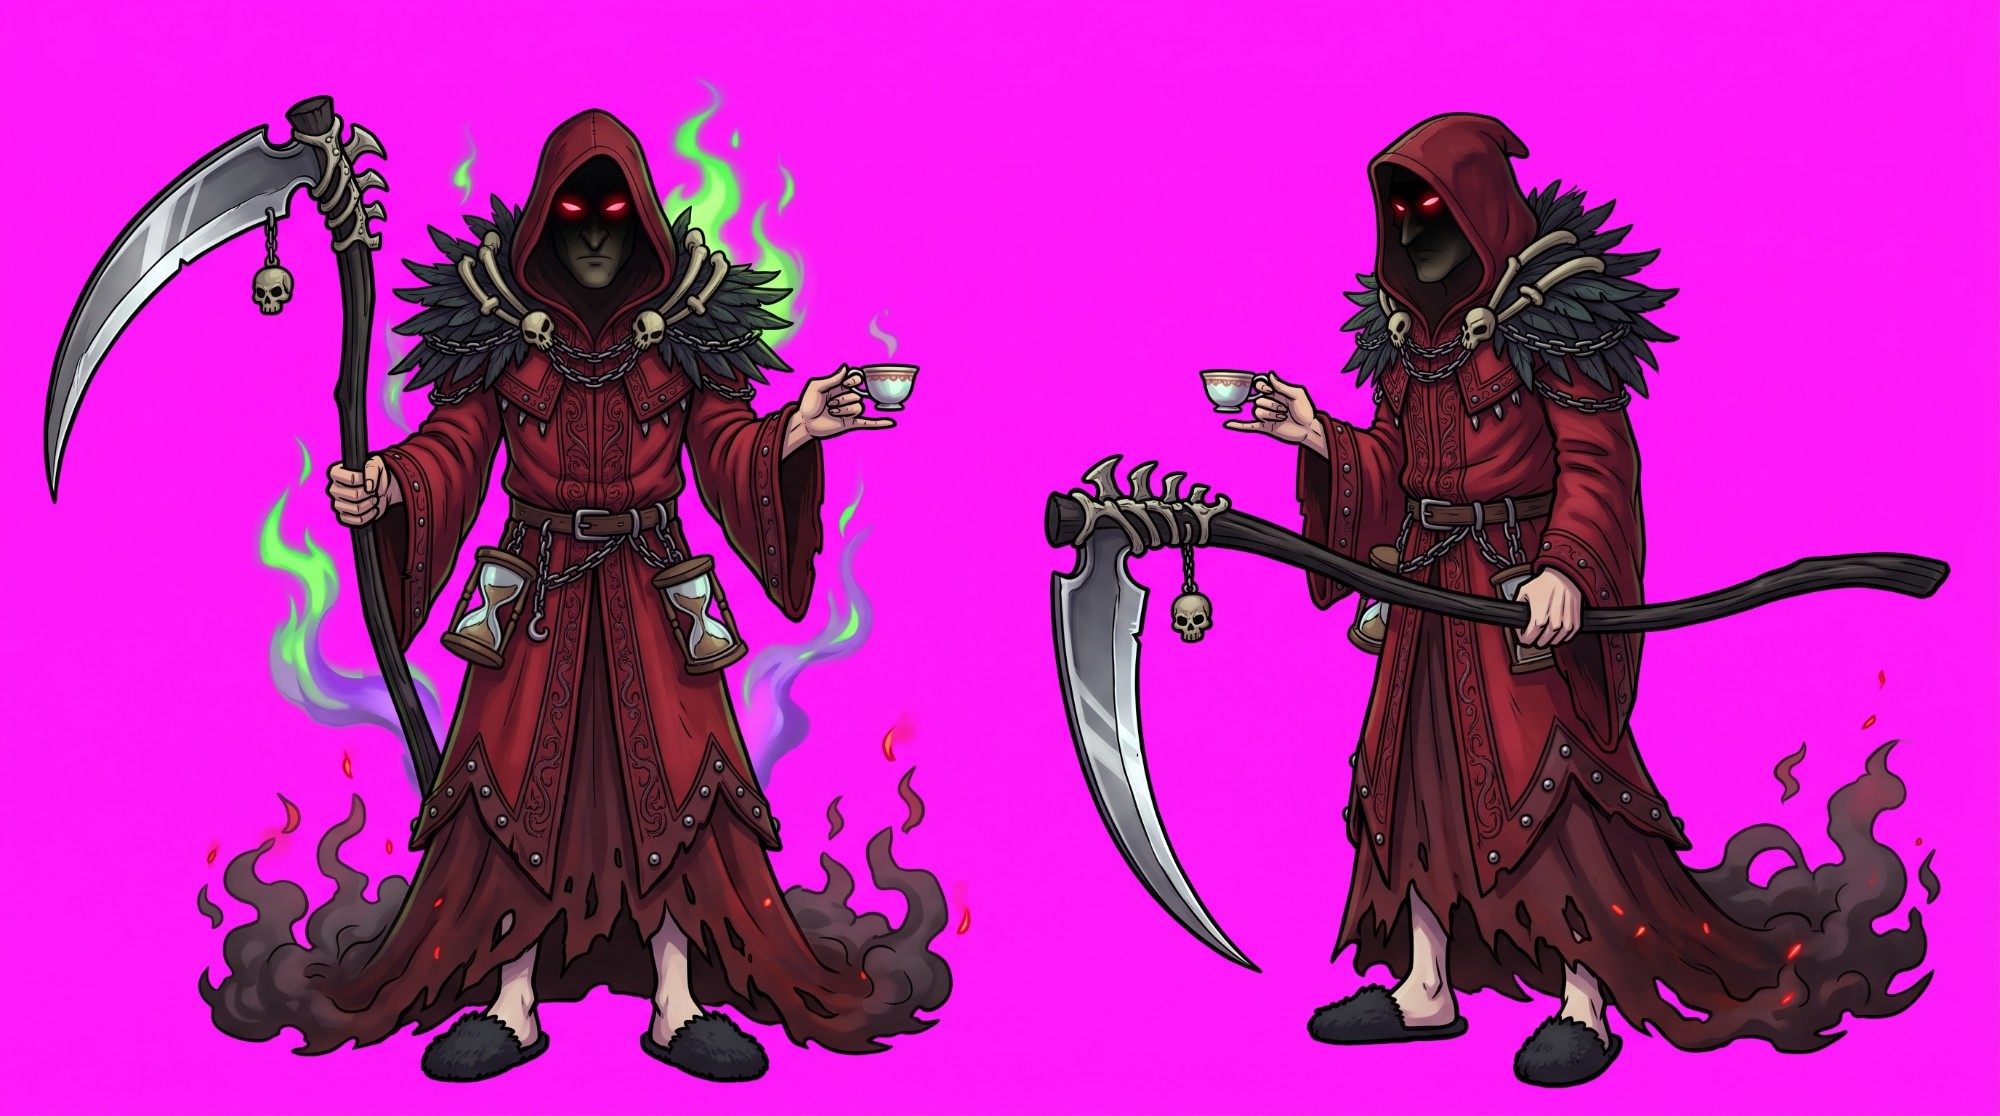
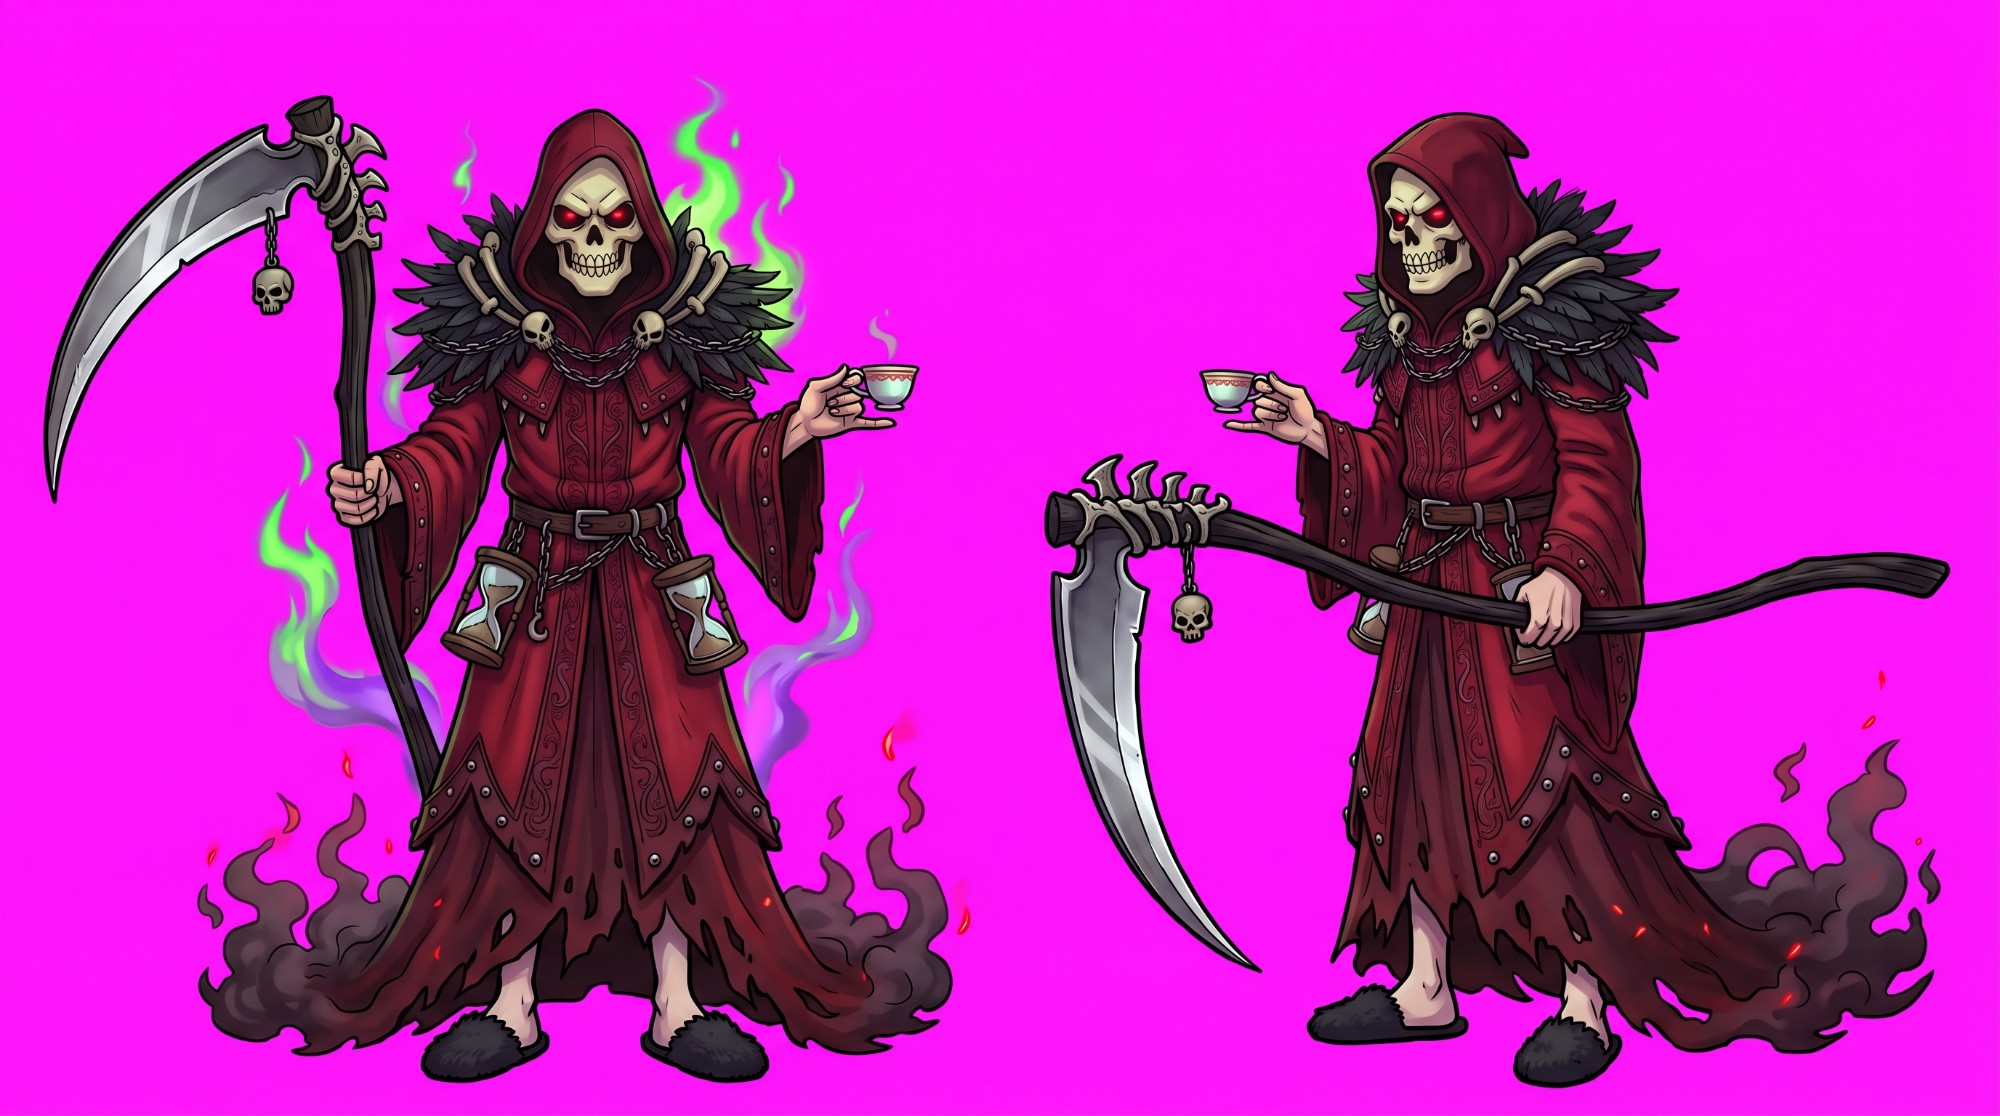
Ölüleri Diriltme: cesetler iskelet değil kendi kılığında, çürümüş solgun renkte kalkar; yolun başına doğru yürür, karşılaştığı düşmanla dövüşür, sonra yürümeye devam eder. Kafatası yüzlü Mortimer karakter sayfası (mortimer.png)

diff --git a/sinir-kalesi/js/game.js b/sinir-kalesi/js/game.js
@@ -71,6 +71,22 @@ const easeOutBack = (x) => 1 + 2.70158 * Math.pow(x - 1, 3) + 1.70158 * Math.pow
 
 // İsabet anında sprite'ın üzerine çizilen beyaz siluet (önbellekli)
 const WHITE = {};
+// dirilen cesetler: aynı görselin solgun, yeşilimsi-gri çürümüş renkli kopyası (önbellekli)
+const ROT = {};
+function rottenOf(name, im) {
+  if (ROT[name]) return ROT[name];
+  const c = document.createElement('canvas'); c.width = im.width; c.height = im.height;
+  const g = c.getContext('2d', { willReadFrequently: true }); g.drawImage(im, 0, 0);
+  const d = g.getImageData(0, 0, c.width, c.height), a = d.data;
+  for (let i = 0; i < a.length; i += 4) {
+    const L = a[i] * 0.3 + a[i + 1] * 0.59 + a[i + 2] * 0.11;
+    a[i] = (a[i] * 0.3 + (L * 0.74 + 16) * 0.7) * 0.86;
+    a[i + 1] = (a[i + 1] * 0.3 + (L * 0.92 + 30) * 0.7) * 0.86;
+    a[i + 2] = (a[i + 2] * 0.3 + (L * 0.68 + 12) * 0.7) * 0.86;
+  }
+  g.putImageData(d, 0, 0);
+  return (ROT[name] = c);
+}
 function whiteOf(name, im) {
   if (!WHITE[name]) {
     const c = document.createElement('canvas');
@@ -2567,6 +2583,9 @@ function updateSoldier(s, dt) {
   }
   if (s.stunT > 0) { s.stunT -= dt; return; }
   if (s.march) { marchSoldier(s, dt); return; }
+  // dirilen ceset: hedefi yokken ve yakında düşman kalmamışken yolun başına doğru yürümeyi sürdürür
+  if (s.zombie && !s.target && !s.moving && G.t - (s.fightT || 0) > 0.6 && !G.enemies.some(o => !o.dead && !o.def.flying && dist(o.x, o.y, s.x, s.y) < s.engage)) zombieMarch(s);
+  if (s.zombie && s.target) s.fightT = G.t;
   if (s.hero && s.ranged) { updateRangedHero(s, dt); runHeroSkills(s, dt); return; }
   if (s.bow) { updateBowSoldier(s, dt); return; }
   const home = soldierHome(s);
@@ -3179,12 +3198,25 @@ function castNecro(id, x, y) {
     sfx('roar');
   }
 }
+// dirilen ceset: en yakın yol noktasından yolun başına (düşman girişine) doğru yürür; yolda düşmana rastlarsa dövüşür
+function zombieMarch(s) {
+  const q = nearestOnPaths(G.paths, s.x, s.y);
+  if (!q.p || q.along < 8) return false;
+  s.march = { p: q.p, d: q.along, goal: 0, off: rand(-7, 7), zombie: true };
+  return true;
+}
 // ölen düşman, diriltme açıkken yerinde iskelet minyon olarak kalkar
 function raiseMinion(e, delay = 0) {
   const S = NECRO_SPELLS.nm_raise, M = S.minion;
   if (G.soldiers.filter(s => s.minion && !s.dead).length >= S.max) return;
-  G.soldiers.push({ militia: true, merc: true, minion: true, x: e.x, y: e.y, rx: e.x, ry: e.y, hp: M.hp, maxHp: M.hp, dmg: M.dmg, armor: M.armor,
-    rate: 1, speed: 40, engage: 60, atk: 0, target: null, dead: false, face: e.face || 1, anim: 0, slot: G.soldiers.length % 4, life: M.life, born: G.t + delay });
+  const s = { militia: true, merc: true, minion: true, x: e.x, y: e.y, rx: e.x, ry: e.y, hp: M.hp, maxHp: M.hp, dmg: M.dmg, armor: M.armor,
+    rate: 1, speed: 40, engage: 60, atk: 0, target: null, dead: false, face: e.face || 1, anim: 0, slot: G.soldiers.length % 4, life: M.life, born: G.t + delay };
+  // ceset düşmanın kendi kılığında kalkar (çürümüş renkte), düşmanların geldiği yöne doğru yolda yürür
+  if (e.name) {
+    const D = ENEMIES[e.name.slice(6)];
+    s.zname = e.name; s.zrig = e.rig; s.zh = e.h || (D ? D.r * 2.6 : 30); s.zombie = true; zombieMarch(s);
+  }
+  G.soldiers.push(s);
   G.effects.push({ kind: 'pillar', x: e.x, y: e.y, col: '140,255,140', t: 0, dur: 0.7 });
   for (let i = 0; i < 8; i++) emit(G.parts, { kind: 'glow', add: true, x: e.x + rand(-8, 8), y: e.y - rand(0, 20), vy: -rand(20, 45), col: '140,255,120', s0: rand(2, 4), s1: 0.5, life: rand(0.5, 0.9) });
 }
@@ -3336,10 +3368,10 @@ function sendMerc(s) {
 }
 // paralı askerin yürüyüşü: yol üzerinde hedef noktaya (iki yöne de) yürür
 function marchSoldier(s, dt) {
-  const m = s.march, sp = MERCS.march * G.wspd;
+  const m = s.march, sp = (m.zombie ? 30 : MERCS.march) * G.wspd; // dirilenler ağır ağır yürür
   // toplanma yeri seçilmediyse yolda karşılaştığı ilk düşmanla orada dövüşür; seçildiyse yerine gider
   const foe = !m.rally && G.enemies.find(e => !e.dead && !e.def.flying && !e.under && dist(e.x, e.y, s.x, s.y) < 34);
-  if (foe || Math.abs(m.d - m.goal) < 1) { s.march = null; if (foe) { s.rx = s.x; s.ry = s.y; } else s.moving = true; return; }
+  if (foe || Math.abs(m.d - m.goal) < 1) { s.march = null; if (foe || m.zombie) { s.rx = s.x; s.ry = s.y; } else s.moving = true; return; }
   m.d += Math.sign(m.goal - m.d) * Math.min(sp * dt, Math.abs(m.goal - m.d));
   const q = pathPos(m.p, Math.min(m.d, m.p.total), m.off);
   s.face = q.x < s.x ? -1 : 1; s.x = q.x; s.y = q.y; s.anim += dt;
@@ -4689,6 +4721,25 @@ function drawSoldier(s) {
   const r = s.hero ? 8 : 5.5;
   const name = s.hero ? s.def.sprite : s.merc ? 'soldier' : s.militia ? 'militia' : 'soldier';
   // Necromancer: mahzen askerleri, paralı askerler ve çağrılanlar iskelet (seviye ve uzmanlığa göre 5 görsel)
+  if (NECRO && s.zname) {
+    const base = spr(s.zname) || enemySprite(s.zname.slice(6));
+    if (base) {
+      const key = s.zname + '_rot', im = rottenOf(s.zname, base);
+      if (ARMS[s.zname] && !ARMS[key]) ARMS[key] = ARMS[s.zname];
+      const walking = s.px !== undefined && dist(s.x, s.y, s.px, s.py) > 0.05;
+      s.px = s.x; s.py = s.y;
+      const ch = s.zh || 30 * UNIT_K;
+      ctx.save(); ctx.globalCompositeOperation = 'lighter'; glow(ctx, s.x, s.y - 2, 14, '110,255,140', 0.25); ctx.restore();
+      if (s.born != null && G.t < s.born) return;
+      const rise = s.born != null && G.t - s.born < 0.6 ? 0.1 + 0.9 * easeOutBack(clamp((G.t - s.born) / 0.6, 0, 1)) : null;
+      drawUnit(key, im, s.x, s.y, s.face || 1, { h: ch, rig: s.zrig || s.zname, phase: s.anim * 7, walking, fly: 0, rise,
+        atk: fighting ? atkPhase(s.rate, s.atk) : null, flash: s.flash, seed: (s.slot || 0) * 1.7 });
+      // başının üstünde soluk yeşil ruh alevi: bizim tarafta olduğu belli olsun
+      ctx.save(); ctx.globalCompositeOperation = 'lighter'; glow(ctx, s.x, s.y - ch - 3, 5 + Math.sin(time * 6 + s.slot) * 1, '120,255,140', 0.55); ctx.restore();
+      if (s.hp < s.maxHp) hpBar(s.x, s.y - ch - 8, 12, s.hp / s.maxHp, '#7ad36a');
+      return;
+    }
+  }
   if (NECRO && !s.hero && spr('unit_skel_1')) {
     const sp2 = s.tower && s.tower.spec;
     // okçu yolu: kademe (1-3) arttıkça zırhı güçlenen 3 okçu görseli (unit_skel_6..8)

diff --git a/sinir-kalesi/js/data.js b/sinir-kalesi/js/data.js
@@ -850,8 +850,8 @@ Object.assign(CASTLE, { spots: [[0.21, 0.385], [0.67, 0.41], [0.46, 0.16]] }); /
 const NECRO_SPELLS = {
   // cesetler ölümden sonra corpse sn yerde yatar; büyü o an yerdeki cesetleri iskelet minyon olarak kaldırır
   nm_raise: { name: 'Ölüleri Diriltme', cd: 45, corpse: 10, col: '120,255,140', max: 10, minion: { hp: 80, dmg: [4, 8], armor: 0.1, life: 30 },
-    desc: 'Yerde yatan düşman cesetleri (ölümden sonra 10 sn) iskelet minyonun olarak kalkar · 30 sn yaşarlar',
-    short: 'Yerdeki düşman cesetleri 30 sn senin için savaşan iskeletlere dönüşür' },
+    desc: 'Yerde yatan düşman cesetleri (ölümden sonra 10 sn) çürümüş ölüler olarak kalkar, düşmanın geldiği yöne yürüyüp senin için savaşır · 30 sn yaşarlar',
+    short: 'Yerdeki cesetler çürümüş ölüler olarak kalkar, düşmana yürüyüp 30 sn senin için savaşır' },
   nm_fear:  { name: 'Korku', cd: 40, r: 120, t: 3.5, col: '190,120,255', desc: 'Seçilen alandaki düşmanlar korkuyla 3,5 sn geri kaçar', short: 'Seçtiğin alandaki düşmanlar 3,5 sn geri kaçar' },
 };
 Object.assign(CASTLE.levels[0], { title: 'Şapel Okçuları', perk: 'Şapel bir iskelet okçuyla kendini savunur' });

diff --git a/sinir-kalesi/index.html b/sinir-kalesi/index.html
@@ -13,7 +13,7 @@
 <canvas id="game" aria-label="Sınır Kalesi oyun alanı"></canvas>
 <script>
   // Sürüm damgası: her yayında artırılır; tarayıcı eski önbellek kopyasını kullanmaz (js ve görseller).
-  window.SURUM = '68';
+  window.SURUM = '69';
   for (const f of ['js/data.js', 'js/game.js']) document.write('<script src="' + f + '?v=' + window.SURUM + '"><\/script>');
 </script>
 

diff --git a/sinir-kalesi/yayin.html b/sinir-kalesi/yayin.html
@@ -13,6 +13,6 @@
 <canvas id="game" aria-label="Sınır Kalesi oyun alanı"></canvas>
 <script>
   // Sürüm damgası: her yayında artırılır; tarayıcı eski önbellek kopyasını kullanmaz (js ve görseller).
-  window.SURUM = '68';
+  window.SURUM = '69';
   for (const f of ['js/data.js', 'js/game.js']) document.write('<script src="' + f + '?v=' + window.SURUM + '"><\/script>');
 </script>
